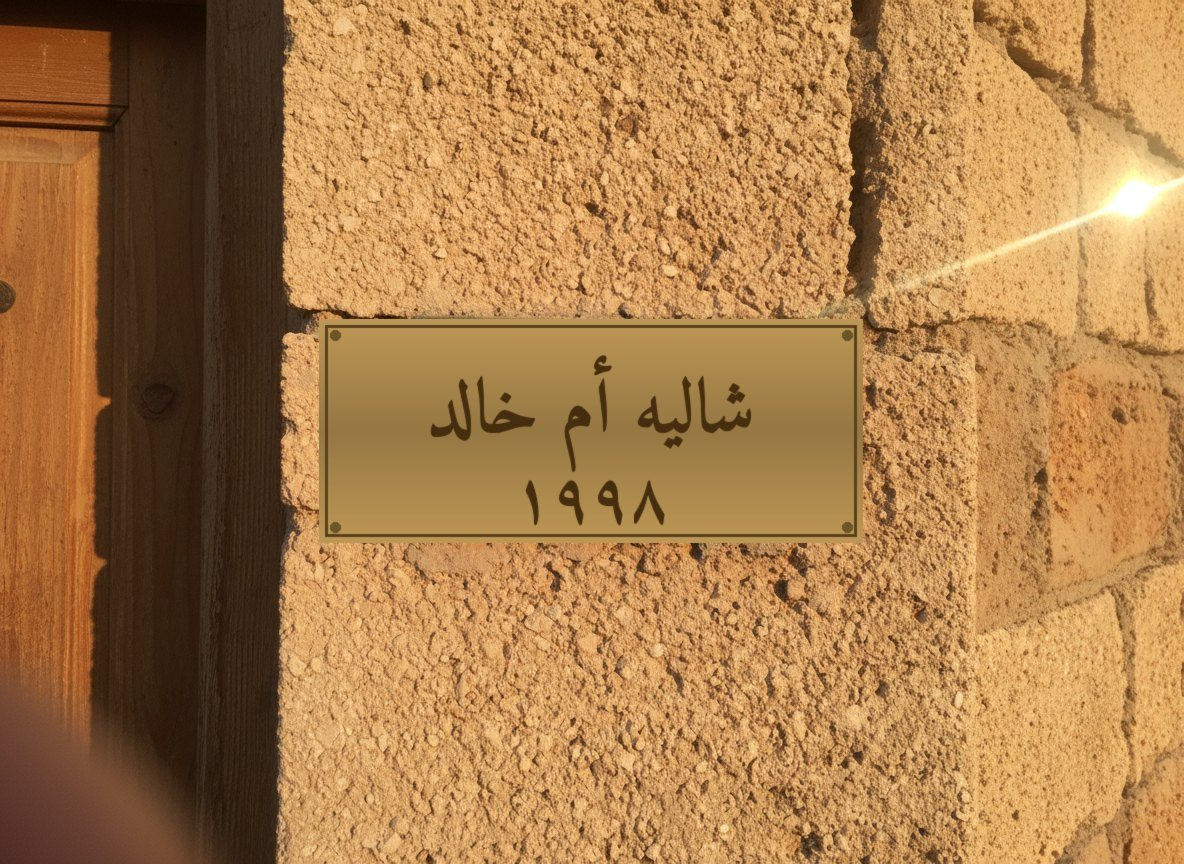
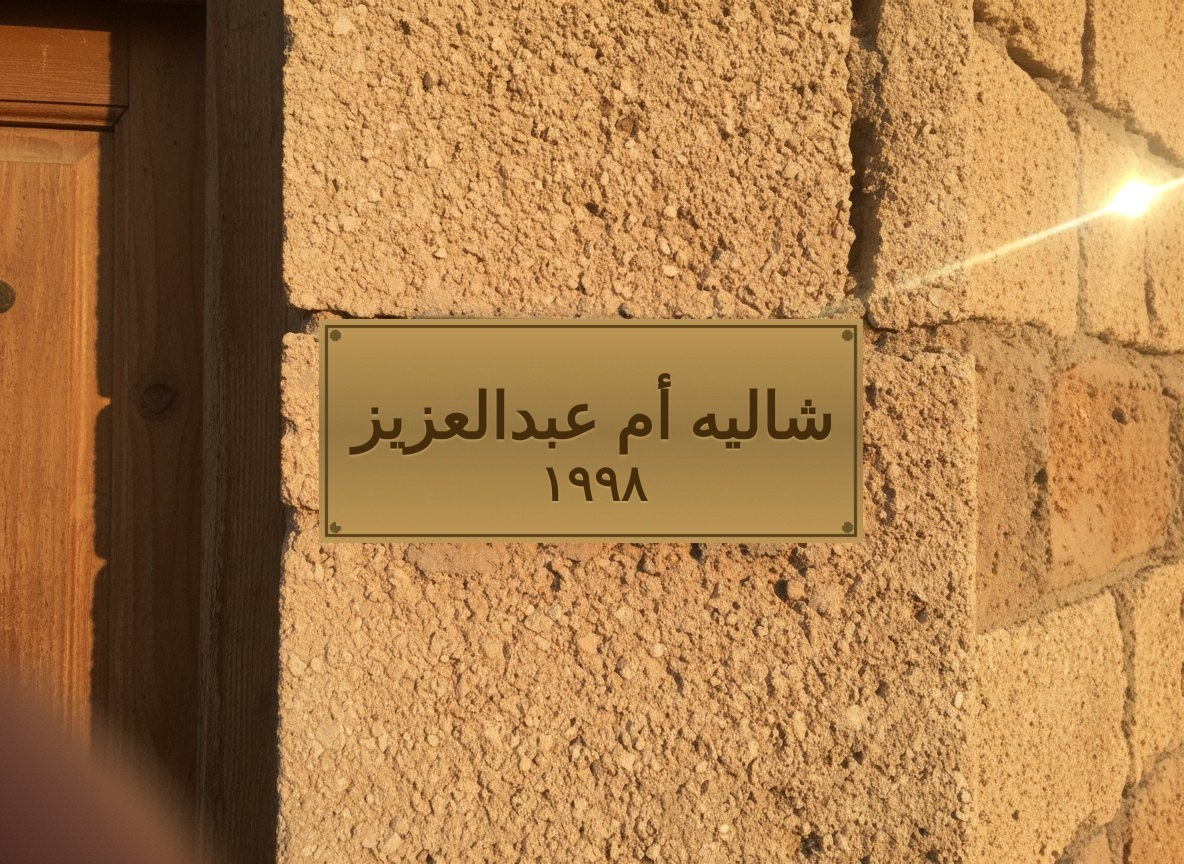
gate: a phone reopened from WhatsApp is the same phone
A paying team hit «الكود مستخدم» on their fourth handset. The code had
six device rows and four of them were minted inside 2.5 seconds — one
phone, the link tapped again and again, each tap a fresh in-app webview
with empty localStorage, each one minting a new uuid against their six.

The device id no longer depends on storage having survived: with nothing
stored it is derived from the handset itself, so the next tap comes back
as the same device. A stored id still wins, so nobody mid-game is
re-slotted. Two identical handsets may now share a slot — a far better
failure than locking a team out of what they bought. The server also
allows ten before refusing, while the game still promises six.

Their code was cleared by hand so they could get back in tonight; this
is so it does not happen to the next team.

Claude-Session: https://claude.ai/code/session_01XahQzRDDJXyLXpYvVApHV5

Changed region(s): [[0.2812, 0.4062, 0.7188, 0.625]]

diff --git a/public/game/index.html b/public/game/index.html
@@ -1812,7 +1812,26 @@ window.showShare=()=>$$('[data-share]').forEach(b=>b.hidden=!code())})();
 const STORE='https://cases.hyphen-eventskw.com'; // change after deploy if different
 const GATE_ON=true; // set false to disable the gate while testing
 $('#gateBuy').href=STORE+'/buy';
-function deviceId(){try{let d=localStorage.getItem('hyphen_dev')||localStorage.getItem('khalid_dev');if(!d){d=crypto.randomUUID()}localStorage.setItem('hyphen_dev',d);return d}catch(e){return 'nodevice'}}
+/* A code was burning six phone slots for four phones. Four of the ids were
+   minted inside 2.5 seconds — one phone, opened repeatedly from a WhatsApp
+   link, each tap a fresh in-app webview with empty storage, each one minting
+   a new uuid. So the id no longer depends on storage having survived: when
+   there is nothing stored we derive one from the device itself, which comes
+   out the same on the next tap. Two identical handsets may share a slot; that
+   is a far better failure than a team being locked out of what they paid for. */
+function deviceSig(){try{const n=navigator,s=screen;
+  const raw=[n.userAgent,n.language,n.hardwareConcurrency,n.maxTouchPoints,
+    s.width,s.height,s.colorDepth,new Date().getTimezoneOffset(),
+    (Intl.DateTimeFormat().resolvedOptions()||{}).timeZone].join('|');
+  let h1=0x811c9dc5,h2=0x01000193;
+  for(let i=0;i<raw.length;i++){const c=raw.charCodeAt(i);
+    h1=Math.imul(h1^c,16777619)>>>0; h2=Math.imul(h2+c,2246822519)>>>0}
+  const hex=n=>('00000000'+n.toString(16)).slice(-8);
+  return 'sig-'+hex(h1)+hex(h2)+hex(h1^h2)}catch(e){return null}}
+function deviceId(){try{let d=localStorage.getItem('hyphen_dev')||localStorage.getItem('khalid_dev');
+  if(!d)d=deviceSig()||crypto.randomUUID();
+  try{localStorage.setItem('hyphen_dev',d)}catch(e){}
+  return d}catch(e){return deviceSig()||'nodevice'}}
 function savedPass(){try{const p=JSON.parse(localStorage.getItem('khalid_pass')||'null');if(p&&new Date(p.expires_at)>new Date())return p}catch(e){}return null}
 async function checkCode(code){const r=await fetch(STORE+'/api/verify',{method:'POST',headers:{'content-type':'application/json'},body:JSON.stringify({code,device:deviceId()})});return r.json()}
 async function gate(){

diff --git a/public/shaleh/index.html b/public/shaleh/index.html
@@ -2101,7 +2101,20 @@ window.addEventListener('pagehide',()=>{save();try{const code=syncCode();if(code
 
 /* ---- gate ---- */
 const GATE_ON=true;
-function deviceId(){try{let d=localStorage.getItem('hyphen_dev')||localStorage.getItem(GAME+'_dev')||localStorage.getItem('khalid_dev');if(!d){d=crypto.randomUUID()}localStorage.setItem('hyphen_dev',d);return d}catch(e){return 'nodevice'}}
+/* A code was burning six phone slots for four phones. Four of the ids were
+   minted inside 2.5 seconds — one phone, opened repeatedly from a WhatsApp
+   link, each tap a fresh in-app webview with empty storage, each one minting
+   a new uuid. So the id no longer depends on storage having survived. */
+function deviceSig(){try{const n=navigator,s=screen;
+  const raw=[n.userAgent,n.language,n.hardwareConcurrency,n.maxTouchPoints,
+    s.width,s.height,s.colorDepth,new Date().getTimezoneOffset(),
+    (Intl.DateTimeFormat().resolvedOptions()||{}).timeZone].join('|');
+  let h1=0x811c9dc5,h2=0x01000193;
+  for(let i=0;i<raw.length;i++){const c=raw.charCodeAt(i);
+    h1=Math.imul(h1^c,16777619)>>>0; h2=Math.imul(h2+c,2246822519)>>>0}
+  const hex=n=>('00000000'+n.toString(16)).slice(-8);
+  return 'sig-'+hex(h1)+hex(h2)+hex(h1^h2)}catch(e){return null}}
+function deviceId(){try{let d=localStorage.getItem('hyphen_dev')||localStorage.getItem(GAME+'_dev')||localStorage.getItem('khalid_dev');if(!d)d=deviceSig()||crypto.randomUUID();try{localStorage.setItem('hyphen_dev',d)}catch(e){}return d}catch(e){return deviceSig()||'nodevice'}}
 function savedPass(){try{const p=JSON.parse(localStorage.getItem(GAME+'_pass')||'null');if(p&&new Date(p.expires_at)>new Date())return p}catch(e){}return null}
 async function checkCode(code){const r=await fetch(STORE+'/api/verify',{method:'POST',headers:{'content-type':'application/json'},body:JSON.stringify({code,device:deviceId(),game:GAME})});return r.json()}
 $('#gateBuy').href=STORE+'/buy?game='+GAME;

diff --git a/public/villa/index.html b/public/villa/index.html
@@ -1740,7 +1740,20 @@ window.addEventListener('pagehide',()=>{save();try{const code=syncCode();if(code
 
 /* ---- gate ---- */
 const GATE_ON=true;
-function deviceId(){try{let d=localStorage.getItem('hyphen_dev')||localStorage.getItem(GAME+'_dev')||localStorage.getItem('khalid_dev');if(!d){d=crypto.randomUUID()}localStorage.setItem('hyphen_dev',d);return d}catch(e){return 'nodevice'}}
+/* A code was burning six phone slots for four phones. Four of the ids were
+   minted inside 2.5 seconds — one phone, opened repeatedly from a WhatsApp
+   link, each tap a fresh in-app webview with empty storage, each one minting
+   a new uuid. So the id no longer depends on storage having survived. */
+function deviceSig(){try{const n=navigator,s=screen;
+  const raw=[n.userAgent,n.language,n.hardwareConcurrency,n.maxTouchPoints,
+    s.width,s.height,s.colorDepth,new Date().getTimezoneOffset(),
+    (Intl.DateTimeFormat().resolvedOptions()||{}).timeZone].join('|');
+  let h1=0x811c9dc5,h2=0x01000193;
+  for(let i=0;i<raw.length;i++){const c=raw.charCodeAt(i);
+    h1=Math.imul(h1^c,16777619)>>>0; h2=Math.imul(h2+c,2246822519)>>>0}
+  const hex=n=>('00000000'+n.toString(16)).slice(-8);
+  return 'sig-'+hex(h1)+hex(h2)+hex(h1^h2)}catch(e){return null}}
+function deviceId(){try{let d=localStorage.getItem('hyphen_dev')||localStorage.getItem(GAME+'_dev')||localStorage.getItem('khalid_dev');if(!d)d=deviceSig()||crypto.randomUUID();try{localStorage.setItem('hyphen_dev',d)}catch(e){}return d}catch(e){return deviceSig()||'nodevice'}}
 function savedPass(){try{const p=JSON.parse(localStorage.getItem(GAME+'_pass')||'null');if(p&&new Date(p.expires_at)>new Date())return p}catch(e){}return null}
 async function checkCode(code){const r=await fetch(STORE+'/api/verify',{method:'POST',headers:{'content-type':'application/json'},body:JSON.stringify({code,device:deviceId(),game:GAME})});return r.json()}
 $('#gateBuy').href=STORE+'/buy?game='+GAME;

diff --git a/app/api/verify/route.js b/app/api/verify/route.js
@@ -24,7 +24,10 @@ export async function POST(req) {
 
   // One code = one team. The team can open it on up to DEVICES phones (they share progress);
   // `uses` counts activated teams against max_uses, not phones.
-  const DEVICES = 6;
+  // Six is what the game promises a team. We allow a few more before refusing,
+  // because a phone that reopens the link from WhatsApp can still arrive as a
+  // stranger, and locking a paying team out is worse than an extra slot.
+  const DEVICES = 10;
   const { data: plays } = await client.from("plays").select("device").eq("code", norm);
   const devices = [...new Set((plays || []).map((p) => p.device))];
   if (!devices.includes(device)) {
